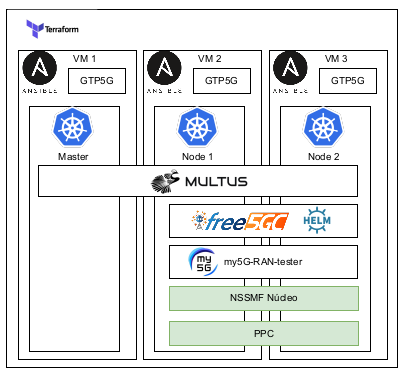
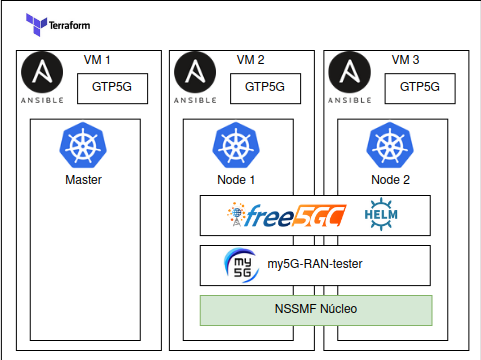
Update Readme

Changed region(s): [[0.0, 0.0, 1.0, 1.0]]

diff --git a/README.md b/README.md
@@ -39,17 +39,16 @@ The AWS architecture was designed to provide the entire AWS VPC and security res
 
 
 
-Kubernetes cluster is configured by Ansible Playbook. Follow free5GC Helm especifications.
+Kubernetes cluster is configured by Ansible Playbook using Kubespray Project:
+
+After Kubernetes installed these modules are required:
 
 * GTP5G Kernel Module - For UPF tunneling communication;
-* Helm 3+ - For Free5GC Cluster Deploy;
-* Simple CNI (Flannel) - Main Cluster CNI;
-* Multus CNI - For UPF seccundary interface configuration;
-* Free5GC Namespace;
-* free5gc-local-pv - For Mongo Volume;
-* MongoDB.
+* open-free5gc-helm from this repo;
+* Prometheus (Optional);
+* Nginx (Optional);
 
-After configuring Free5GC Helm especifications the playbook add Prometheus, Nginx Ingress Controller, Fluend and run Helm Install.
+After configuring Free5GC Helm specifications you will get the following scenario:
 
 ![](./imgs/cluster-architecture.png)
 
@@ -63,14 +62,16 @@ After configuring Free5GC Helm especifications the playbook add Prometheus, Ngin
 To run you need to follow 3 steps
 * Terraform
 * Build k8s Cluster
-* Deploy 5g Core environment
+* Install GTP5G Linux Kernel Module 
+* Deploy 5G Core environment
 
 In Terraform stage you can choose between AWS or Proxmox, so:
 
 If you already have VMs ingore the first step.
 
+## Infrastructure
 
-### Build AWS Infrastructure
+#### Build AWS Infrastructure
 
 Create AWS account
 
@@ -84,58 +85,70 @@ terraform plan
 terraform apply --auto-approve
 ```
 
-### Build Local VMs Infrastructure
-![Docs](./terraform-vms-proxmox/README.md)
+#### Build Local VMs Infrastructure
+[Docs](./terraform-vms-proxmox/README.md)
 
+## Environment
 
+### Prepare OS to 5G
+
+Install [GTP5G Linux Kernel Module](https://github.com/free5gc/gtp5g) 
+
+Install [Helm Project](https://helm.sh/docs/intro/install/)
 
 ### Build Kubernetes Environment
 
-#### If AWS
-To run AWS configuration remember to add [AWS Credentials](https://docs.aws.amazon.com/sdk-for-javascript/v2/developer-guide/getting-your-credentials.html)
+Install Kubernetes using [Kubespray Project](https://github.com/kubernetes-sigs/kubespray )
 
-To install run the commands:
+Before Install
 
-```bash
-cd ansible-k8s
-./run.sh
-```
+* Update inventory group_vars to use Calico as default CNI 
 
-After Installed enter on [AWS Console](https://us-east-2.console.aws.amazon.com/console/home) and connect to K8S-DEMO-EC2-MASTER-pub;
+### Install Free5gc Core
 
-
-#### If Local VMs
-```bash
-cd  ansible-k8s
-# Update hosts file with IP/Domain name from your master and workers
-./run-local.sh
-```
-
-Run the commands:
+Connect on Kubernetes Master VM
 
 ```bash
-export KUBECONFIG=/etc/kubernetes/adming.config
-kubectl get pods -A
-```
-
-### Insall Free5gc Core
-```bash
-cd ./ansible-free5gc
-# Update hosts file with IP/Domain name from your master and workers
-./run-local.sh
+git clone https://github.com/fhgrings/open-free5gc-helm
+kubectl create namespace free5gc
+kubectl config set-context --current --namespace=free5gc
+helm install open -n free5gc open-free5gc-helm/
 ```
 
 
 ### Check Availability
 ```bash
-export KUBECONFIG=/etc/kubernetes/adming.config
-kubectl get pods -A
+kubectl get pods 
 ```
 Check if all pods are running 
-![](./imgs/cluster.jpeg)
+
+![](./imgs/cluster.png)
 
 
-#### FAQ
+
+## Tests
+
+#### Install my5G-RANTester
+
+```bash
+git clone https://github.com/my5G/my5g-RANTester-helm.git
+kubectl apply -f my5g-RANTester-helm/5g-tester.yaml
+```
+
+Docs:
+
+https://github.com/my5G/my5G-RANTester
+
+#### SSH Tunneling (Optional)
+
+```bash
+ssh -L 5000:intra.example.com:5000 gw.example.com
+```
+
+
+
+## FAQ
+
 Problem
 
 Mongodb pending with message "1 node(s) had volume node affinity conflict"
@@ -179,7 +192,7 @@ https://pkg.go.dev/net/http
 
 https://pkg.go.dev/golang.org/x/net/http2/h2c
 
-https://github.com/free5gc/amf/blob/e857bcd091ec69e66a2d390345fb4faf5c5d89e2/consumer/nf_mangement.go (Exemplo de classe: Nnrf_NFManagement)
+https://github.com/free5gc/amf/blob/e857bcd091ec69e66a2d390345fb4faf5c5d89e2/consumer/nf_mangement.go (Class example: Nnrf_NFManagement)
 
 
 
